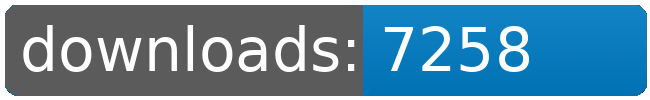
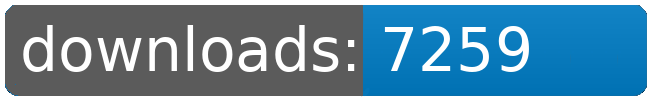
dl log written

Changed region(s): [[0.7692, 0.27, 0.8308, 0.72]]

diff --git a/README.md b/README.md
@@ -54,8 +54,8 @@
 		<td>6384</td>
 		<td>6395</td>
 		<td>6411</td>
-		<td>6412</td>
-		<td>+ 1</td>
+		<td>6413</td>
+		<td>+ 2</td>
 	</tr>
 	<tr>
 		<td>Korunak.Defense.Drones</td>
@@ -76,8 +76,8 @@
 		<td>7223</td>
 		<td>7234</td>
 		<td>7256</td>
-		<td>7258</td>
-		<td>+ 2</td>
+		<td>7259</td>
+		<td>+ 3</td>
 	</tr>
 	<tr>
 		<td>Sheragi.Rebirth.Redux</td>
@@ -120,8 +120,8 @@
 		<td></td>
 		<td></td>
 		<td></td>
-		<td>55171</td>
-		<td>11</td>
+		<td>55173</td>
+		<td>13</td>
 	</tr>
 </table>
 </sub></sup>
@@ -168,8 +168,8 @@
 		<td>7223</td>
 		<td>7234</td>
 		<td>7256</td>
-		<td>7258</td>
-		<td>+ 2</td>
+		<td>7259</td>
+		<td>+ 3</td>
 	</tr>
 	<tr>
 		<td>Korunak.Defense.Drones</td>
@@ -212,8 +212,8 @@
 		<td>6384</td>
 		<td>6395</td>
 		<td>6411</td>
-		<td>6412</td>
-		<td>+ 1</td>
+		<td>6413</td>
+		<td>+ 2</td>
 	</tr>
 	<tr>
 		<td>Zone.of.Control</td>
@@ -245,8 +245,8 @@
 		<td></td>
 		<td></td>
 		<td></td>
-		<td>55171</td>
-		<td>11</td>
+		<td>55173</td>
+		<td>13</td>
 	</tr>
 </table>
 </sub></sup>
@@ -254,7 +254,6 @@
 <table>
 	<tr>
 		<td> </td>
-		<td>2026-06-29</td>
 		<td>2026-06-30</td>
 		<td>2026-07-01</td>
 		<td>2026-07-02</td>
@@ -263,10 +262,10 @@
 		<td>2026-07-05</td>
 		<td>2026-07-06</td>
 		<td>2026-07-07</td>
+		<td>2026-07-08</td>
 	</tr>
 	<tr>
 		<td>page views</td>
-		<td>16</td>
 		<td>4</td>
 		<td>4</td>
 		<td>5</td>
@@ -275,10 +274,10 @@
 		<td>49</td>
 		<td>38</td>
 		<td>7</td>
+		<td>33</td>
 	</tr>
 	<tr>
 		<td>unique visitors</td>
-		<td>8</td>
 		<td>2</td>
 		<td>4</td>
 		<td>2</td>
@@ -287,6 +286,7 @@
 		<td>2</td>
 		<td>7</td>
 		<td>2</td>
+		<td>8</td>
 	</tr>
 </table>
 <br>
@@ -300,8 +300,8 @@
 	</tr>
 	<tr>
 		<td>2025-10-13</td>
-		<td>5994</td>
-		<td>1814</td>
+		<td>6027</td>
+		<td>1822</td>
 		<td>173</td>
 		<td>45</td>
 	</tr>
@@ -314,8 +314,8 @@
 	</tr>
 	<tr>
 		<td>269</td>
-		<td>22.28</td>
-		<td>6.74</td>
+		<td>22.41</td>
+		<td>6.77</td>
 		<td></td>
 		<td></td>
 	</tr>
